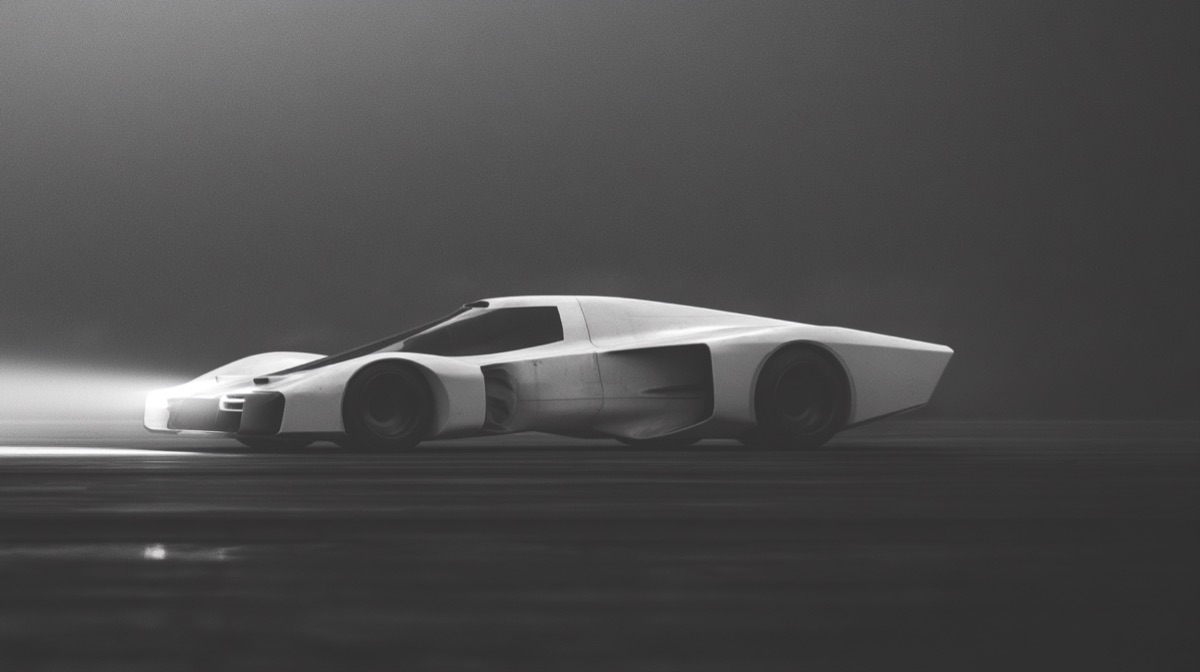
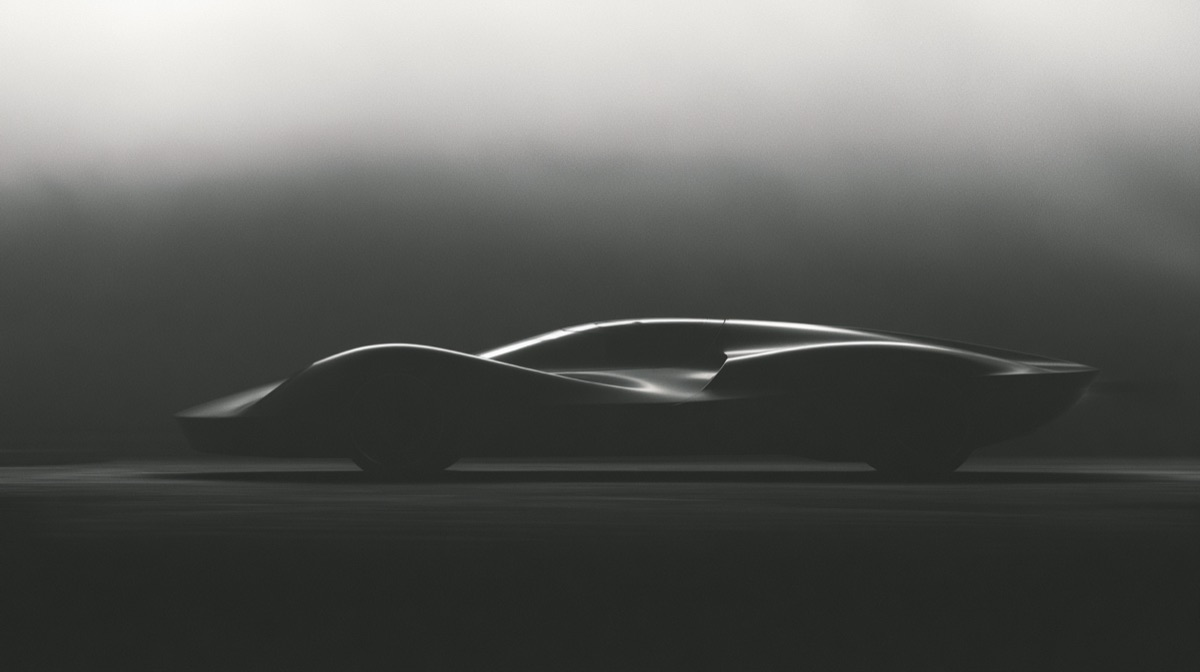
one image swapped, the scrollback comes home faster

diff --git a/pixel/demo.html b/pixel/demo.html
@@ -171,7 +171,7 @@ window.__recall = () => {
   // critically damped spring back to the top. velocity is continuous,
   // long distances arrive faster but nothing ever snaps
   let sy = scrollY, sv = 0, last = performance.now();
-  const k = 42, d = 2 * Math.sqrt(k);
+  const k = 110, d = 2 * Math.sqrt(k);
   const step = (now) => {
     const dt = Math.min((now - last) / 1000, 0.05);
     last = now;
